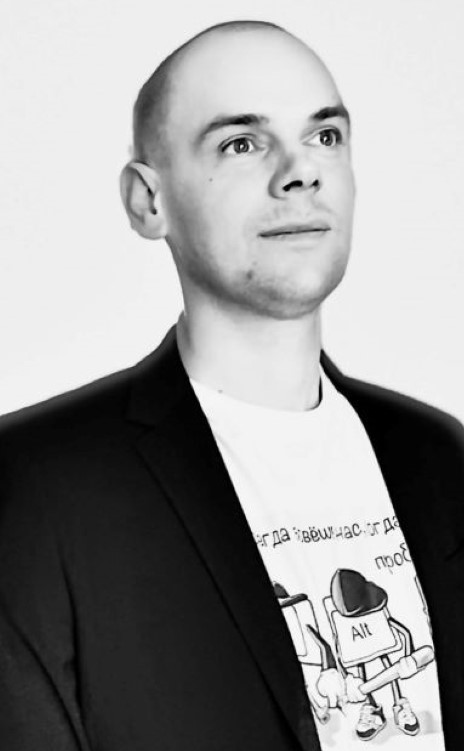
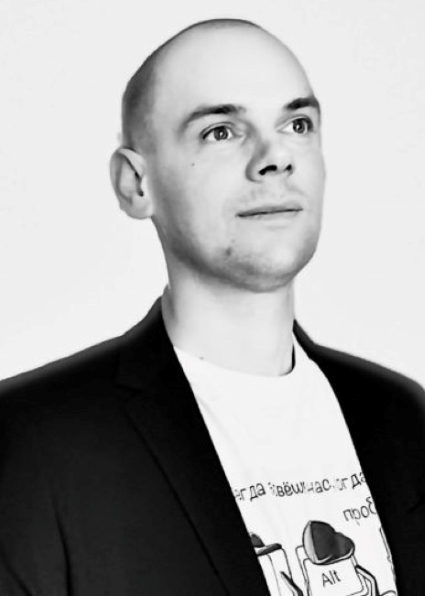
'feat: add picture'

diff --git a/index.html b/index.html
@@ -42,7 +42,10 @@
         <p class="head-desc">HTML CODER</p>
       </div>
       <figure class="head-pic">
-        <img class="pic-avatar" src="./img/ava01jpg.jpg" alt="my avatar" />
+        <picture>
+          <source srcset="./img/ava10.jpg" media="(max-width: 425px)" />
+          <img class="pic-avatar" src="./img/ava01jpg.jpg" alt="my avatar" />
+        </picture>
       </figure>
     </header>
 
